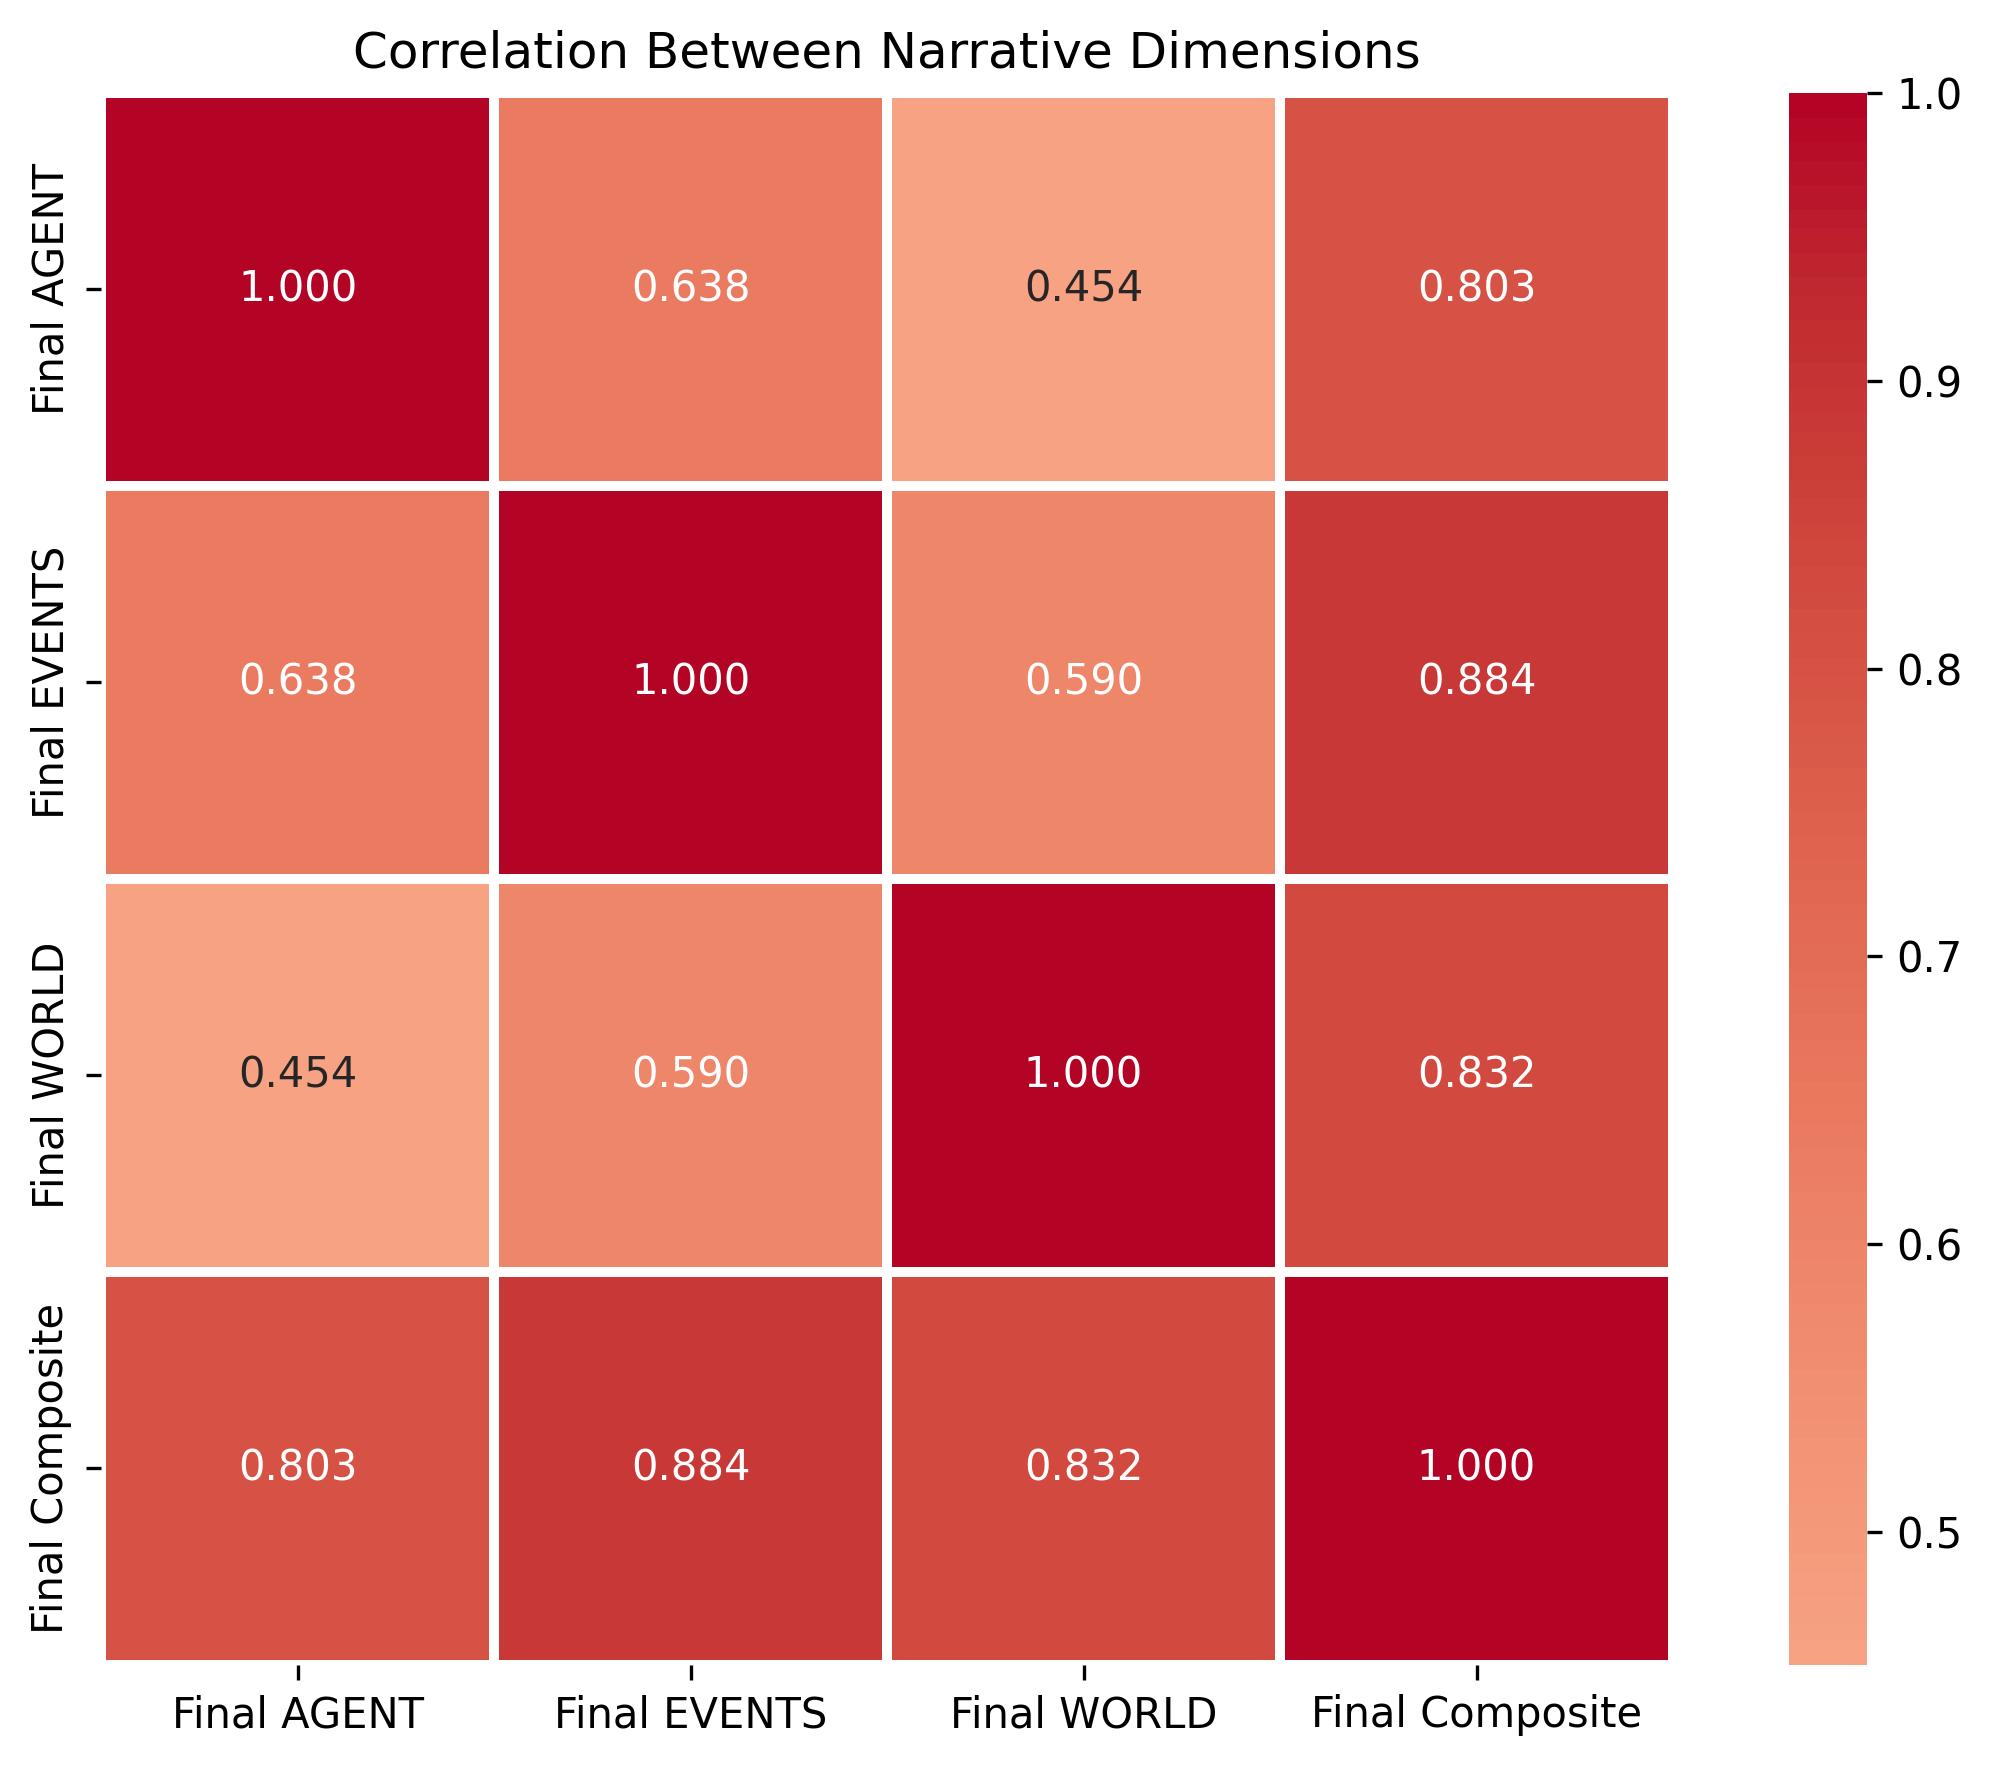
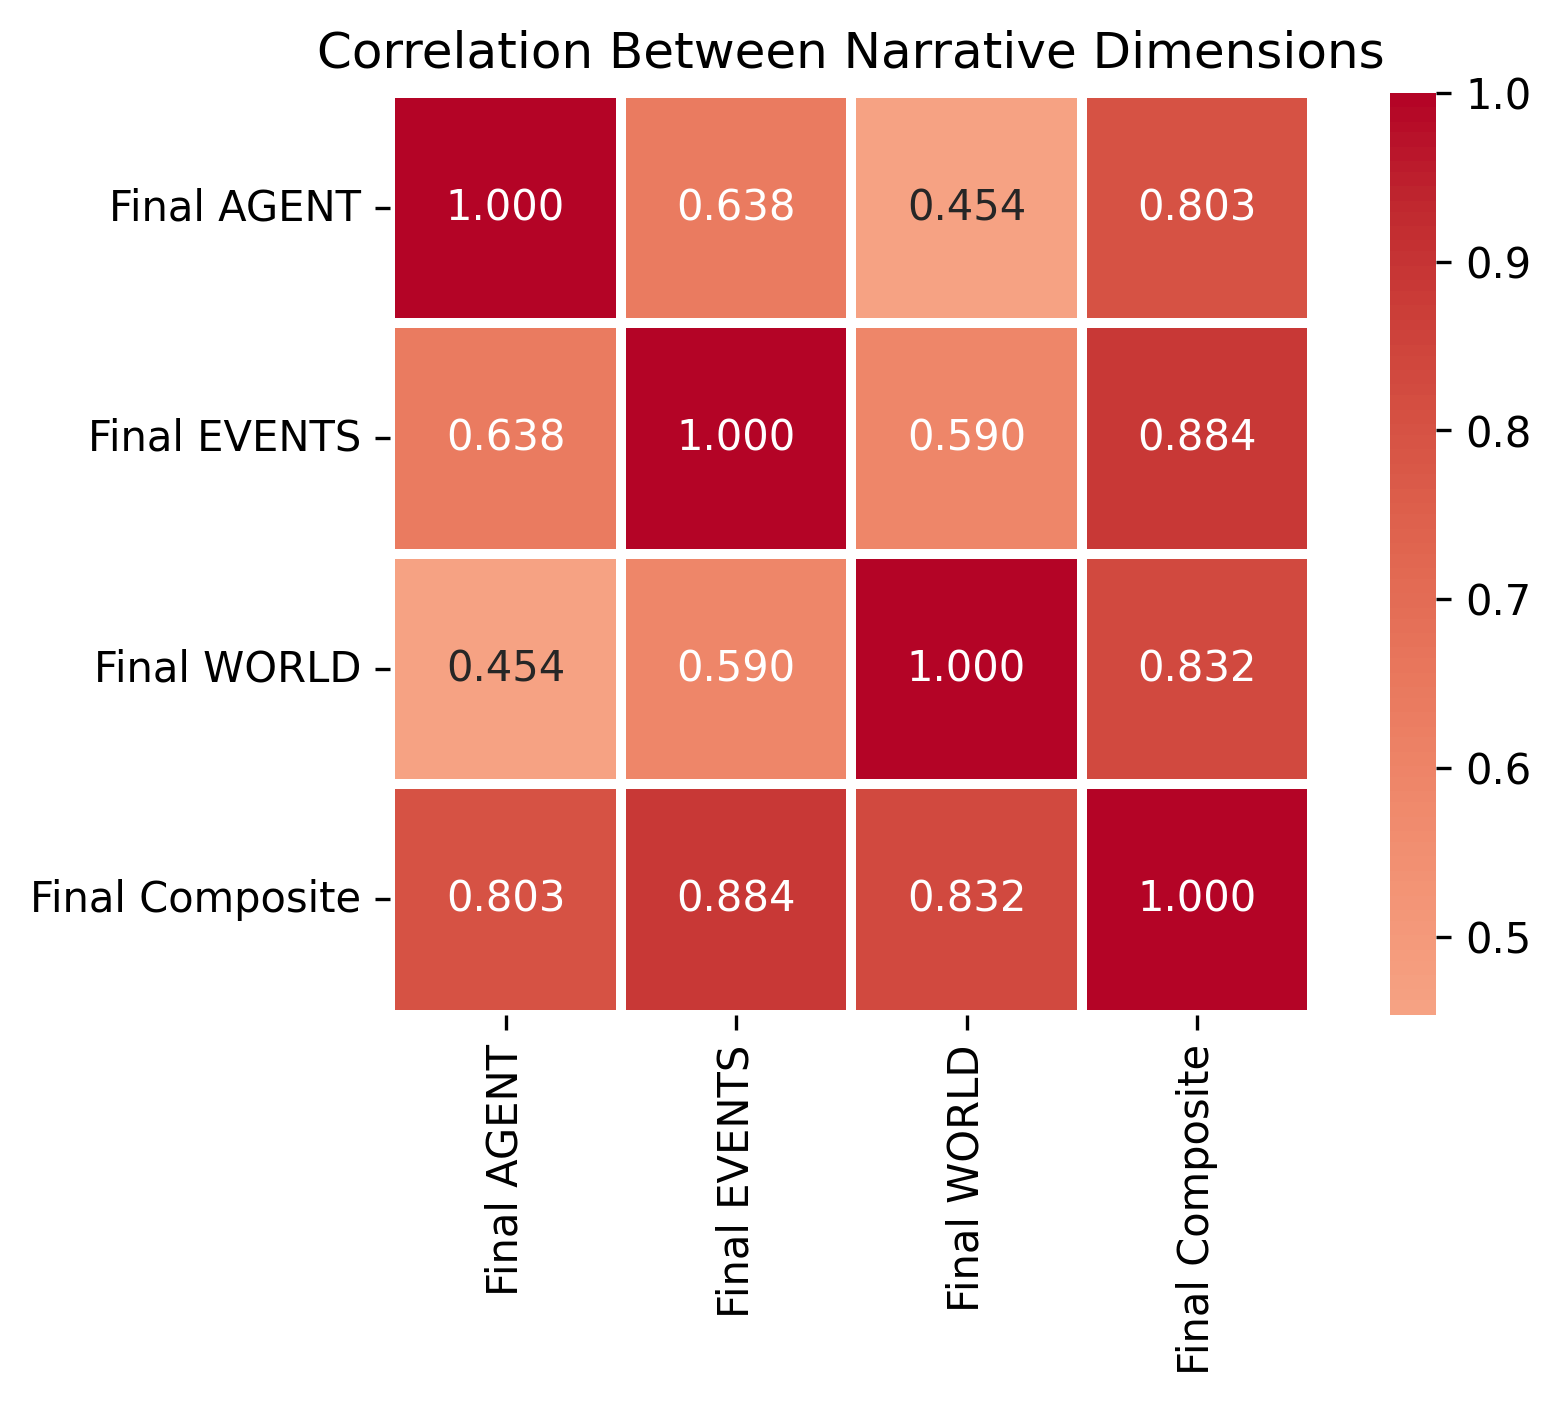
new changes

diff --git a/data_analysis.py b/data_analysis.py
@@ -11,34 +11,26 @@ from scipy.stats import linregress
 
 # Load song narrativity annotations dataset
 df = pd.read_csv("C:/Users/lub11/OneDrive/Documents/SI 671/annotations.tsv", sep='\t')
-print(df.head())
+print(df.head()) # first 5 rows
 
 # ============================================================================
 # EXPLORATORY DATA ANALYSIS
 # ============================================================================
 
-# ============================================================================
-# 1. Data Overview
-# ============================================================================
+# Descriptive Statistics
 
-print(f"Shape: {df.shape}")
-print(f"Time period: {df['year'].min()}-{df['year'].max()}")
-print(f"Categories: {df['cat'].nunique()}")
-
-print("\nMissing values:")
-print(df.isnull().sum()[df.isnull().sum() > 0])
-
+print(f"Shape: {df.shape}") # rows, columns
+print(f"Time period: {df['year'].min()}-{df['year'].max()}") # timeline of data
+print("\nMissing values:") 
+print(df.isnull().sum()[df.isnull().sum() > 0]) # missing values per column
 print("\nSummary statistics:")
 narrative_cols = ['Final AGENT', 'Final EVENTS', 'Final WORLD', 'Final Composite']
-print(df[narrative_cols].describe())
+print(df[narrative_cols].describe()) # descriptive stats
 
-# ============================================================================
-# 2. Distributions
-# ============================================================================
+# Histogram plots for each narrative dimension
 
 fig, axes = plt.subplots(2, 2, figsize=(12, 8))
 colors = ['blue', 'green', 'orange', 'black']
-
 for idx, (col, color) in enumerate(zip(narrative_cols, colors)):
     ax = axes[idx // 2, idx % 2]
     ax.hist(df[col].dropna(), bins=25, color=color, edgecolor='black', alpha=0.7)
@@ -50,32 +42,23 @@ for idx, (col, color) in enumerate(zip(narrative_cols, colors)):
     ax.legend()
     ax.grid(alpha=0.3)
 
-plt.tight_layout()
-plt.savefig('eda_distributions.png', dpi=300, bbox_inches='tight')
+#plt.savefig('eda_distributions.png', dpi=300, bbox_inches='tight')
 plt.show()
 
-# ============================================================================
-# 3. Correlations
-# ============================================================================
+# Correlation Matrix bewteen Narrative Dimensions (Heatmap)
 
 correlation_matrix = df[narrative_cols].corr()
-plt.figure(figsize=(12, 6))
 sns.heatmap(correlation_matrix, annot=True, fmt='.3f', cmap='coolwarm', 
             center=0, square=True, linewidths=2)
 plt.title('Correlation Between Narrative Dimensions')
 plt.tight_layout()
-plt.savefig('eda_correlations.png', dpi=300, bbox_inches='tight')
+#plt.savefig('eda_correlations.png', dpi=300, bbox_inches='tight')
 plt.show()
 
-# ============================================================================
-# 4. Year Trends
-# ============================================================================
+# Yearly Trends in Narrativity (Line Plot)
 
 yearly_means = df.groupby('year')[narrative_cols].mean()
-
-plt.figure(figsize=(12, 6))
-for col, color, label in zip(narrative_cols[:3], colors[:3], 
-                              ['AGENTS', 'EVENTS', 'WORLD']):
+for col, color, label in zip(narrative_cols[:3], colors[:3], ['AGENTS', 'EVENTS', 'WORLD']):
     plt.plot(yearly_means.index, yearly_means[col], 
              marker='o', linewidth=2, label=label, alpha=0.8)
 
@@ -83,58 +66,43 @@ plt.xlabel('Year')
 plt.ylabel('Average Score')
 plt.title('Narrativity Over Time')
 plt.legend()
-plt.grid(alpha=0.3)
 plt.tight_layout()
-plt.savefig('eda_temporal.png', dpi=300, bbox_inches='tight')
+#plt.savefig('eda_temporal.png', dpi=300, bbox_inches='tight')
 plt.show()
 
-# Test for trend
-slope, _, r_val, p_val, _ = linregress(yearly_means.index, 
-                                        yearly_means['Final Composite'])
+# Seeing if there is a Temporal Trend (Linear Regression)
+slope, _, r_val, p_val, _ = linregress(yearly_means.index, yearly_means['Final Composite'])
 print(f"\nLinear trend test (Composite score):")
 print(f"  Slope: {slope:.4f} per year")
 print(f"  R²: {r_val**2:.3f}")
 print(f"  P-value: {p_val:.4f} ({'significant' if p_val < 0.05 else 'not significant'})")
 
-# ============================================================================
-# 5. Genre Comparison
-# ============================================================================
+# Genre Differences in Narrativity (Bar Plot)
 
 genre_means = df.groupby('cat')['Final Composite'].mean().sort_values(ascending=False)
-
-plt.figure(figsize=(12, 6))
-genre_means.plot(kind='barh', color='steelblue', edgecolor='black')
+genre_means.plot(kind='barh')
 plt.xlabel('Average Composite Score')
 plt.title('Narrativity by Genre')
 plt.grid(axis='x', alpha=0.3)
 plt.tight_layout()
-plt.savefig('eda_genres.png', dpi=300, bbox_inches='tight')
+#plt.savefig('eda_genres.png', dpi=300, bbox_inches='tight')
 plt.show()
 
-# ============================================================================
-# 6. Inter-Annotator Agreement
-# ============================================================================
+# Annotator Agreement Analysis
 
 std_cols = ['Agents std', 'Events std', 'World std']
 mean_cols = ['Agents mean', 'Events mean', 'World mean']
-
 for col in std_cols:
     print(f"  {col}: {df[col].mean():.3f}")
-
 fig, axes = plt.subplots(1, 2, figsize=(12, 5))
-
-# Boxplot of disagreement
 df[std_cols].boxplot(ax=axes[0], labels=['AGENTS', 'EVENTS', 'WORLD'])
 axes[0].set_title('Annotator Disagreement by Dimension')
 axes[0].set_ylabel('Standard Deviation')
 axes[0].grid(alpha=0.3)
 
-# Mean vs Std scatter
-for mean_col, std_col, color, label in zip(mean_cols, std_cols, 
-                                            ['blue', 'orange', 'green'],
-                                            ['AGENTS', 'EVENTS', 'WORLD']):
+# Mean vs Std scatter Annotator Disagreement
+for mean_col, std_col, color, label in zip(mean_cols, std_cols, ['blue', 'orange', 'green'], ['AGENTS', 'EVENTS', 'WORLD']):
     axes[1].scatter(df[mean_col], df[std_col], alpha=0.5, label=label, s=30)
-
 axes[1].set_xlabel('Mean Score')
 axes[1].set_ylabel('Standard Deviation')
 axes[1].set_title('Score vs Disagreement')
@@ -142,14 +110,10 @@ axes[1].legend()
 axes[1].grid(alpha=0.3)
 
 plt.tight_layout()
-plt.savefig('eda_agreement.png', dpi=300, bbox_inches='tight')
+# plt.savefig('eda_agreement.png', dpi=300, bbox_inches='tight')
 plt.show()
 
-# ============================================================================
-# 7. Summary
-# ============================================================================
-
-
+# Summary of EDA Findings
 print(f"""
 SUMMARY:
 1. Dataset: {len(df)} songs from {df['year'].min()}-{df['year'].max()}
@@ -169,14 +133,21 @@ SUMMARY:
 
 """)
 
+# EDA Conclusion:
+# strong inter-dimension correlations, temporal increase, genre effects suggest narrativity is meaningful in music
+# Looks like we can collapse the 3 dimensions into a smaller set via dimensionality reduction
+
+# Research question for dimensionality reduction: what underlying factors/principal components explain narrativity
+# The goal is to identify key dimensions that capture most variance in narrativity scores across songs.
+# With the high correlations, we can explain 
+
+
 
 # ============================================================================
 # Dimensionality Reduction with PCA
 # ============================================================================
 
-# ============================================================================
-# 1. Scaling and PCA Model Fitting
-# ============================================================================
+# Scaling and Model Fitting
 
 #  Narrative dimensions
 pca_features = ['Final AGENT', 'Final EVENTS', 'Final WORLD']
@@ -190,20 +161,18 @@ X_scaled = scaler.fit_transform(X_final)
 pca = PCA()
 X_pca = pca.fit_transform(X_scaled)
 
-# ============================================================================
-# 2. Variance Explained by Principal Components
-# ============================================================================
+# Variance Explained by Principal Components
 
 # Explained variance
 explained_variance = pca.explained_variance_ratio_
-#print(explained_variance)
+print("\nExplained Variance by Principal Components:")
+print(explained_variance)
 cumulative_variance = np.cumsum(explained_variance)
-#print(cumulative_variance)
+print("\nCumulative Explained Variance by Principal Components:")
+print(cumulative_variance)
 
-# ============================================================================
-# 2. Scree Plots
-# ============================================================================
+# Scree Plots
 
-# ============================================================================
-# 3. Bi Plots
-# ============================================================================
+# Bi Plots
+
+# Singificant Components Loadings
